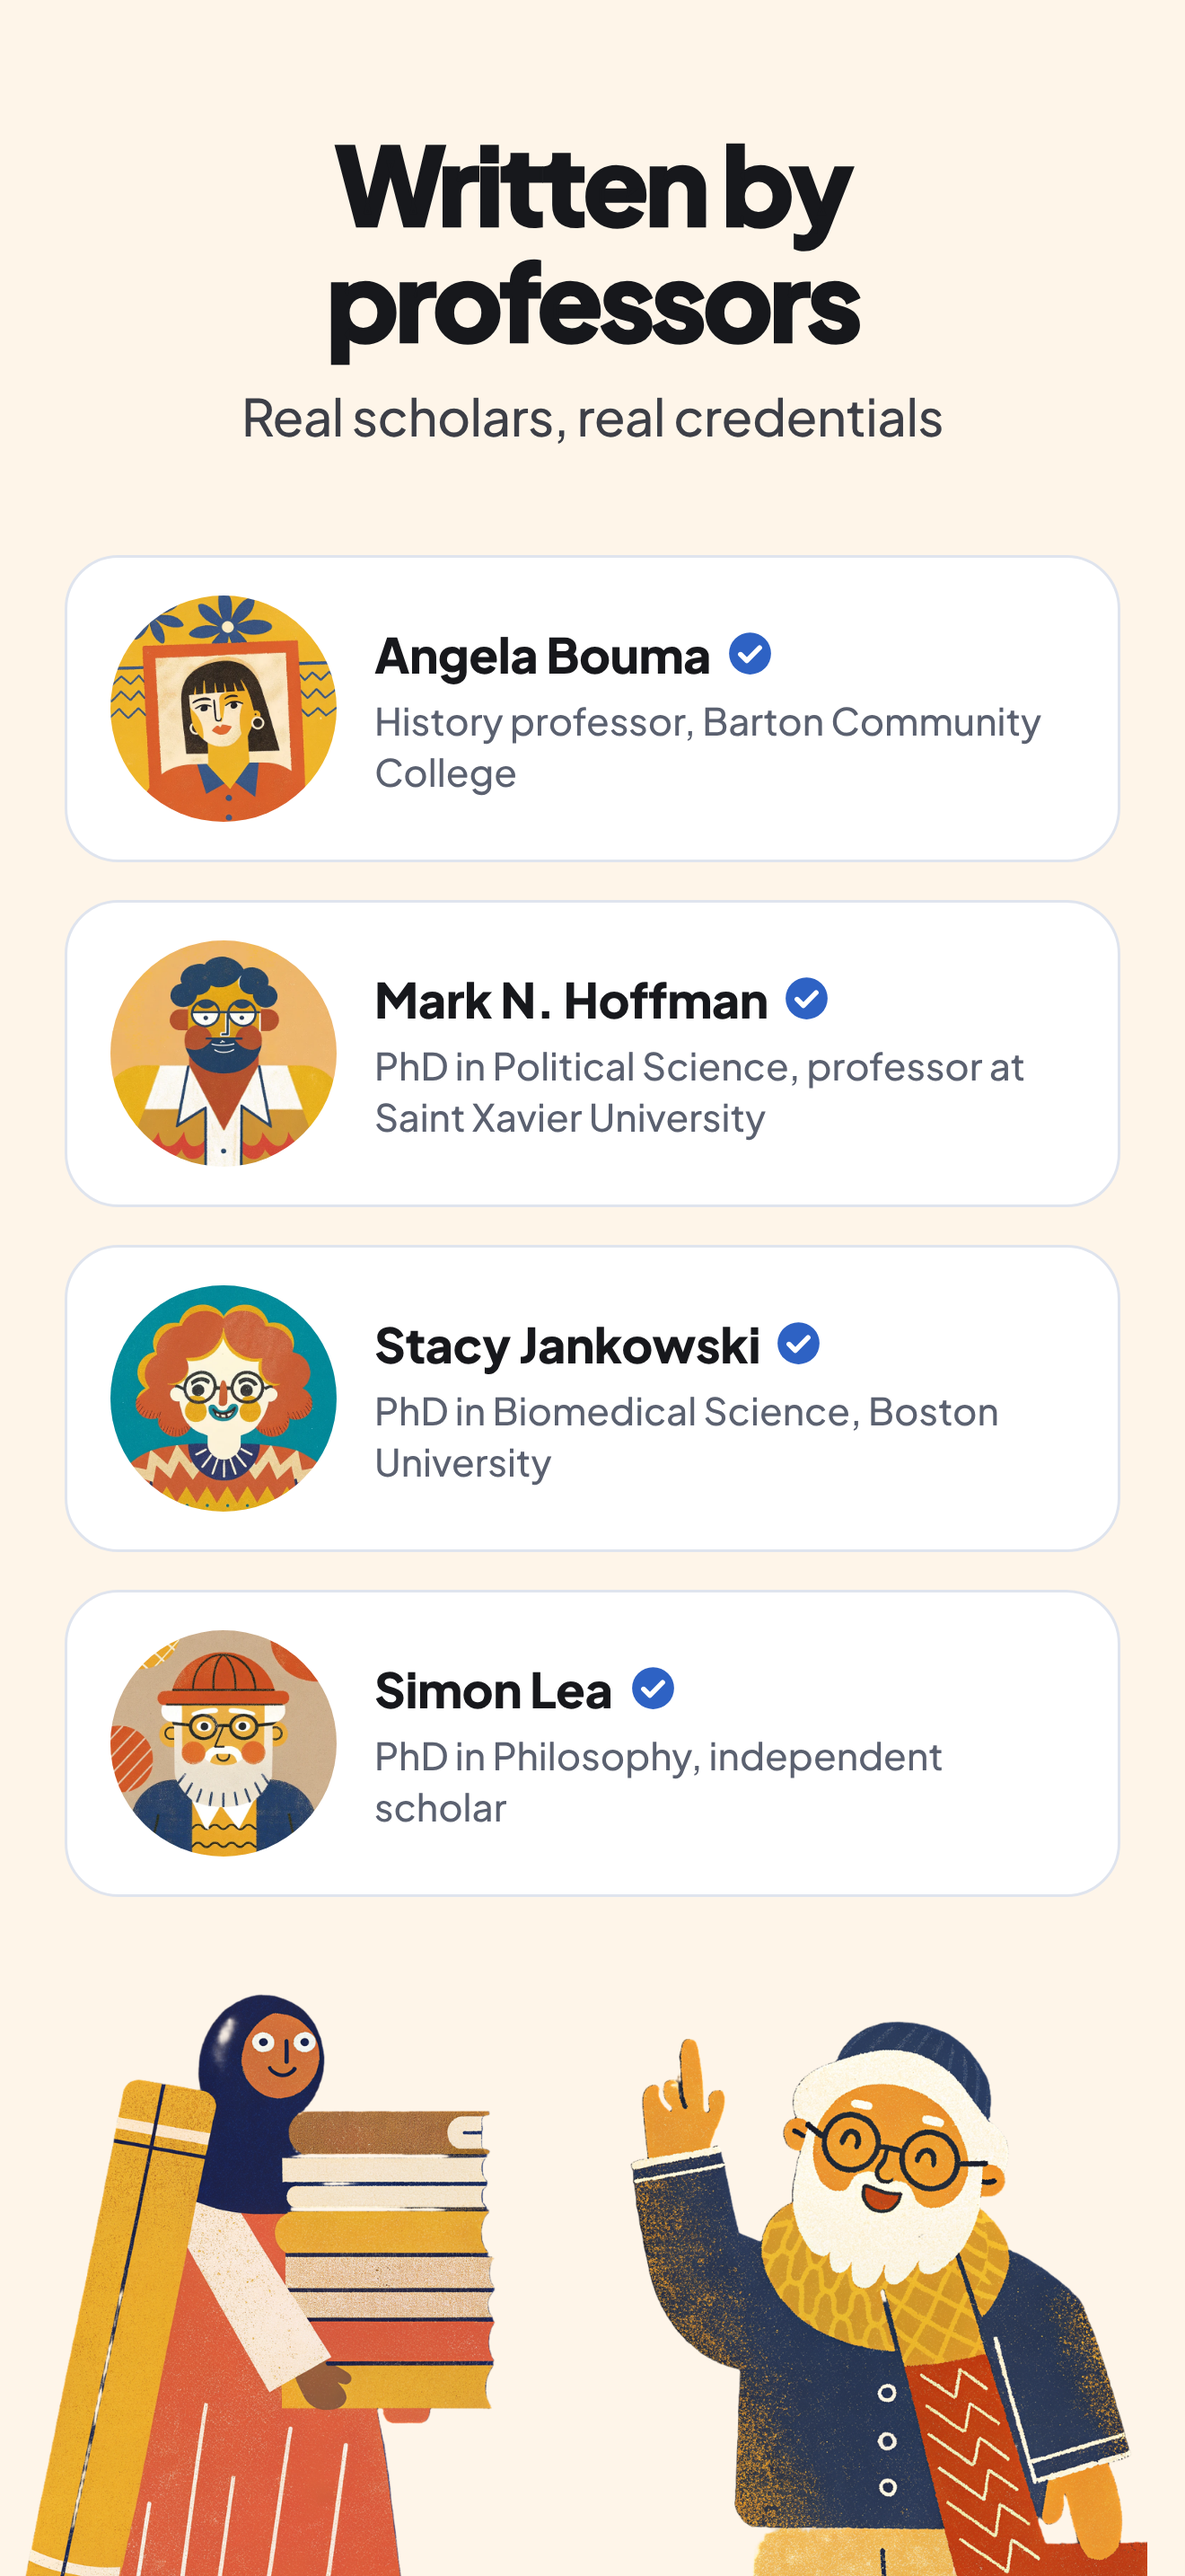
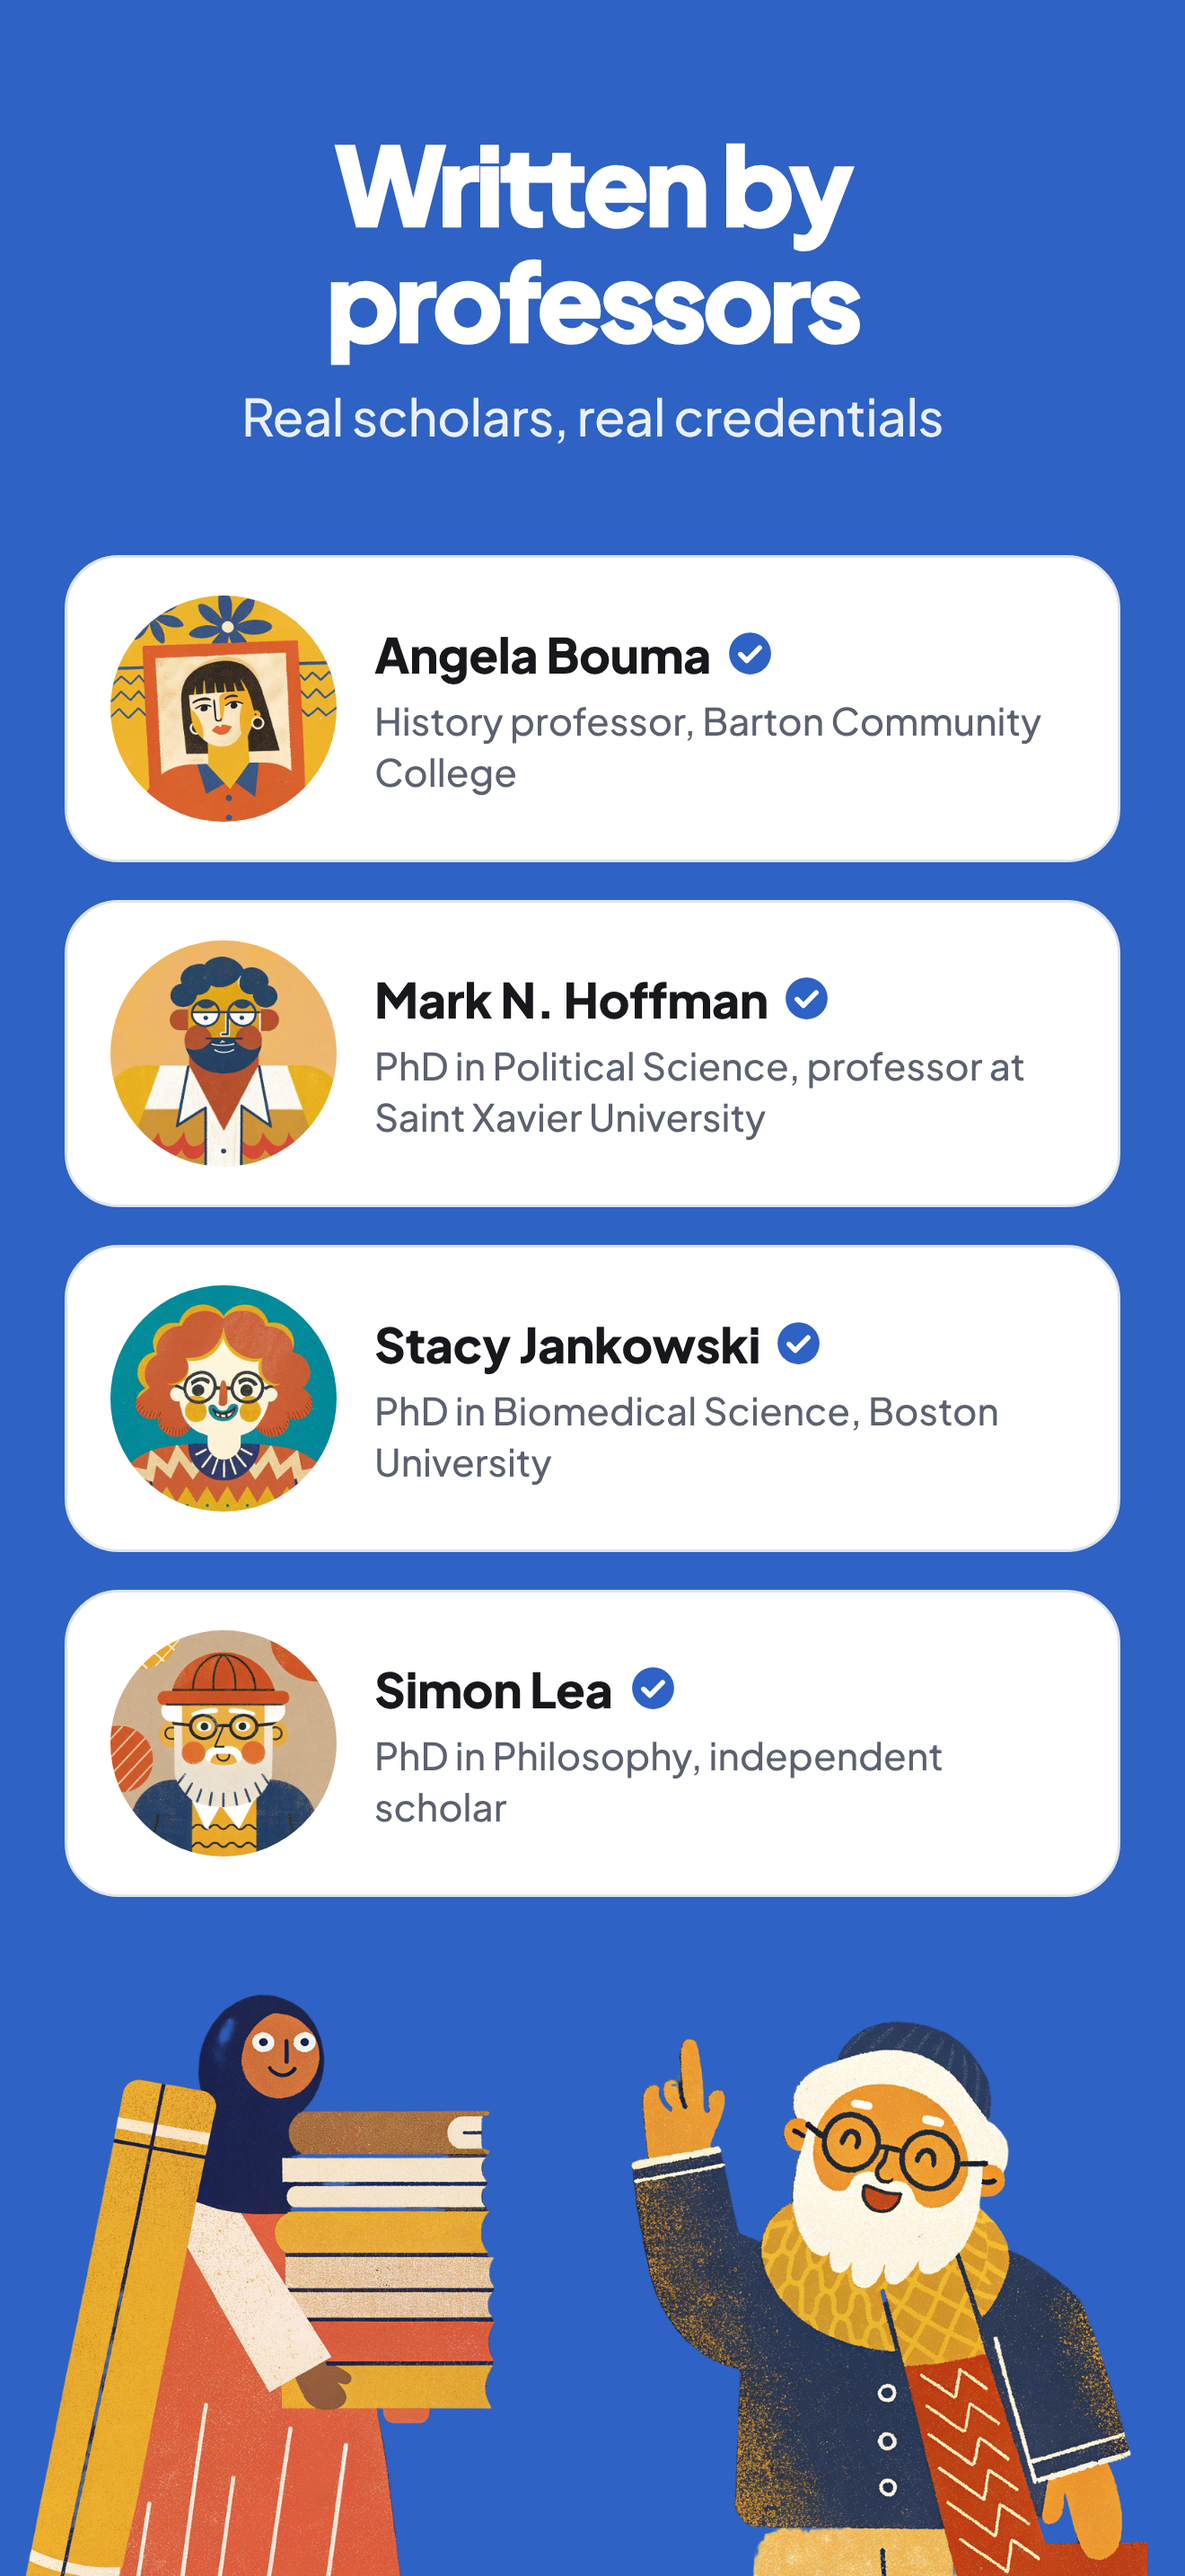
Captures App Store, showcase-bold : beige sur les panneaux 3, 6 et 8
Les duels reviennent en corail ; le dernier panneau passe en bleu pour ne
pas suivre un beige par un autre.

Claude-Session: https://claude.ai/code/session_01Yb4eBsmKHAU4mkJzSv6usd

diff --git a/appstore/screenshots/src/pano.js b/appstore/screenshots/src/pano.js
@@ -234,7 +234,7 @@ function recolour(dir, themes, hearts) {
   });
 }
 // Bold: a different strong colour on almost every panel.
-PANOS["showcase-bold"] = recolour("-showcase-bold", ["cream", "blue", "coral", "navy", "pink", "coral", "blue", "coral", "cream"], "#ffffff");
+PANOS["showcase-bold"] = recolour("-showcase-bold", ["cream", "blue", "cream", "navy", "pink", "cream", "coral", "cream", "blue"], "#ffffff");
 // Trio: cream, blue and pink in rotation.
 PANOS["showcase-trio"] = recolour("-showcase-trio", ["cream", "blue", "pink", "cream", "blue", "pink", "cream", "blue", "pink"], "#f4a3c4");
 
